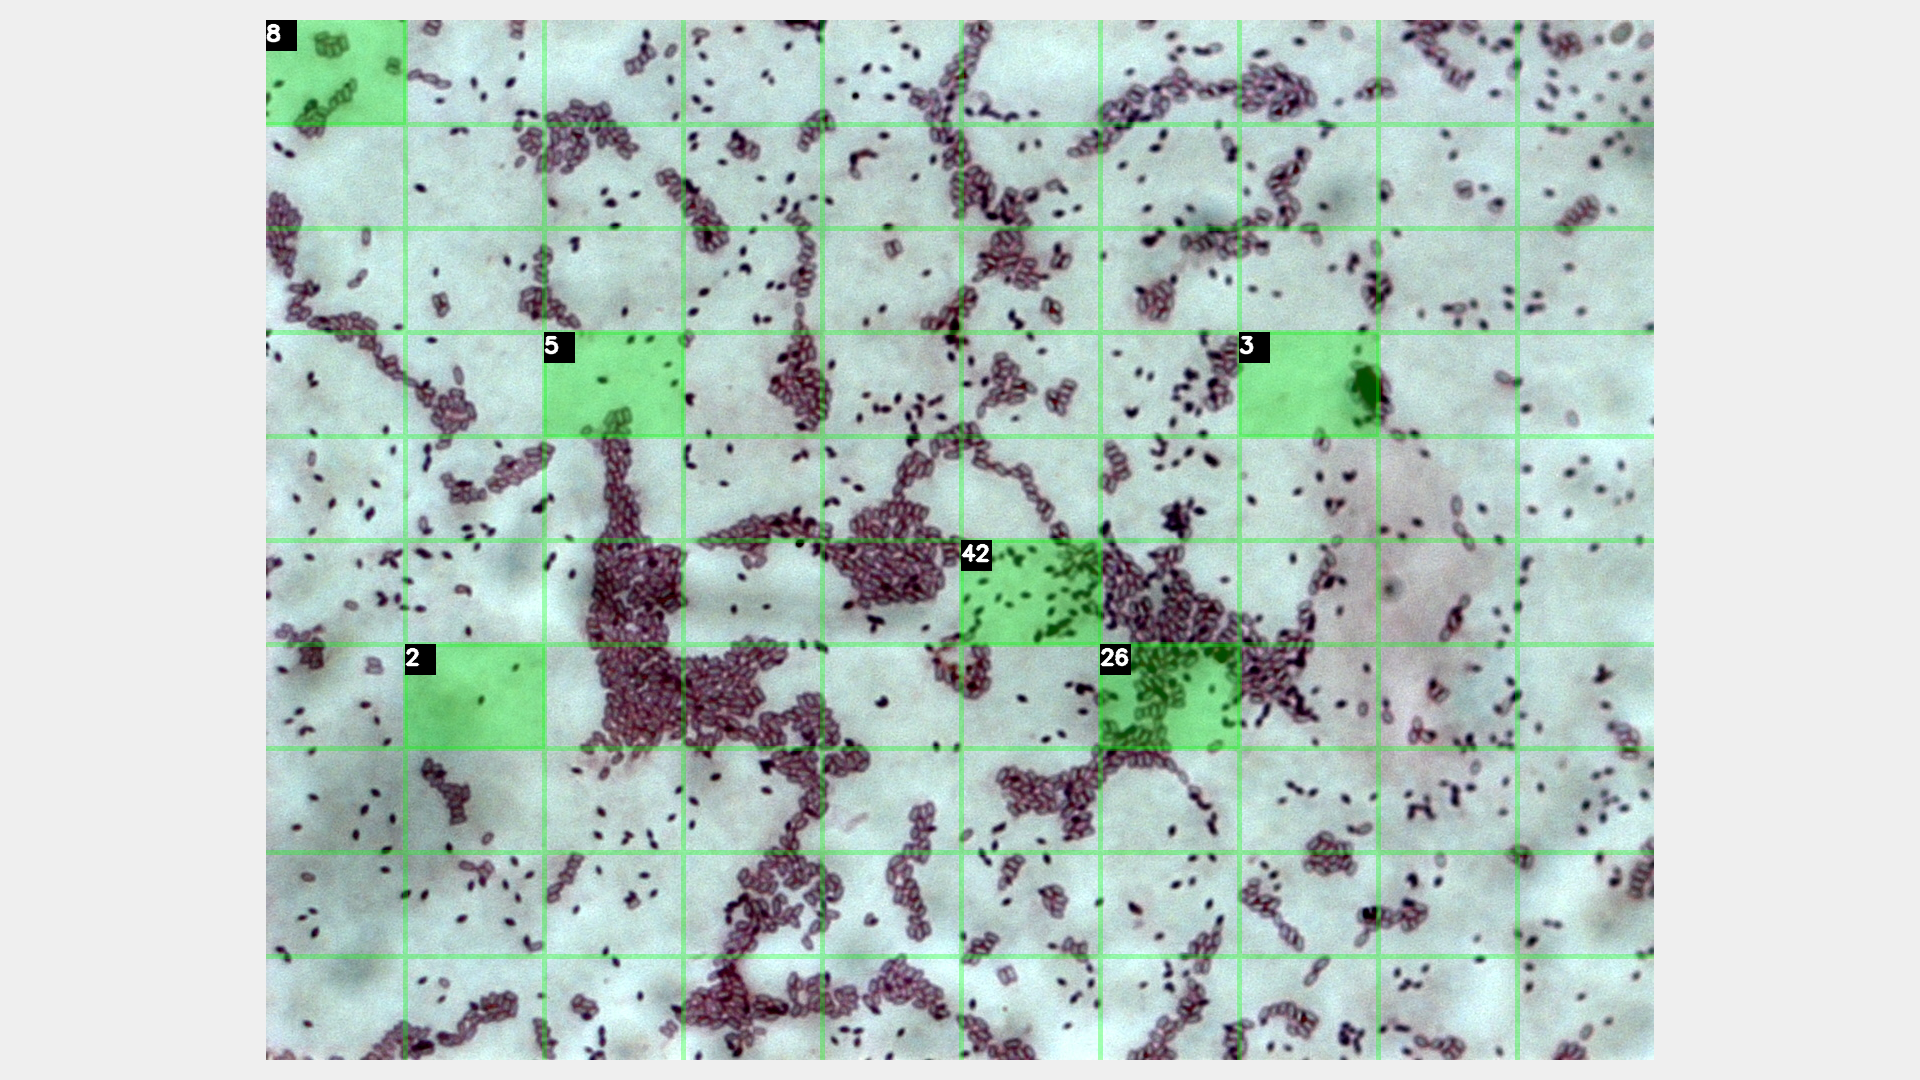
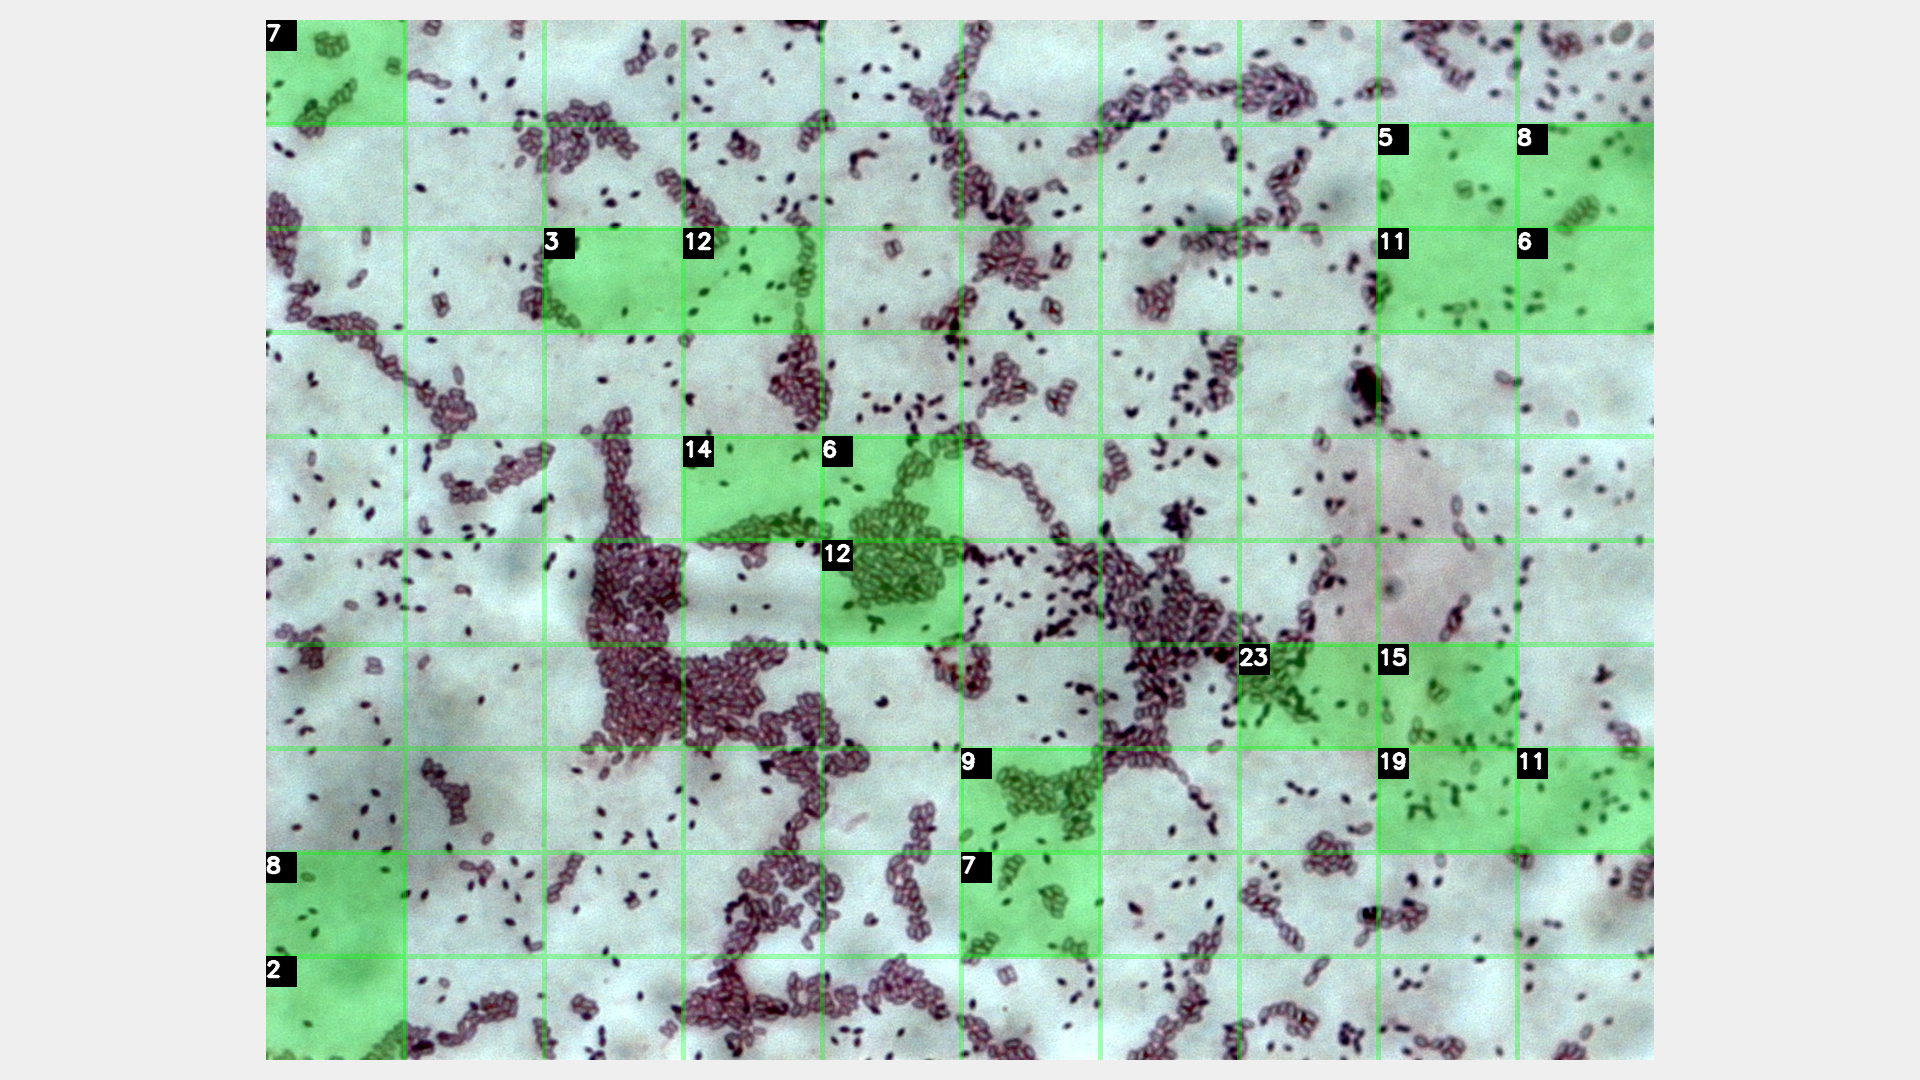
att readme

diff --git a/README.md b/README.md
@@ -5,3 +5,55 @@ Sistema auxilar para a contagem de elementos capturados em placas via images mic
 <p align="center">
     <img src="./assets/demoMicroCount.png" width="700px" height="375px">
 </p>
+
+## Sobre o Projeto
+
+O projeto consiste de uma aplicação desenvolvida em Python e utilizando a biblioteca de processamento de imagens OpenCV visando auxilar a contagem manual de elementos capturados em placas via images microscópicas. 
+
+Uma técnica comumente utilizada na área de bioinformática é a divisão da imagem original em áreas menores, denominadas setores. Assim, a contagem individual de cada setor é realizada e, ao final, a contagem geral é obtida pela soma das parcelas de cada setor.
+
+A ideia do projeto é automatizar parte desse processo, facilitando a divisão precisa da imagem em setores e fornecendo ferramentas para que o usuário possa marcar e contar os elementos manualmente dentro de cada setor. Isso permitirá uma contagem mais rápida e organizada, com a opção de ajustar e visualizar os setores de forma interativa. O objetivo final é melhorar a precisão e eficiência do processo de contagem, além de garantir que os resultados sejam facilmente registrados e exportados para futuras análises.
+
+## Funcionamento
+
+### Selecione uma imagem
+
+```
+*************** Escolha uma imagem ***************
+
+1) SE11 - 1.jpg
+2) BT 06 - quad 96 h- 5uL- corada.jpg
+3) LCBM 6 - 2.jpg
+4) T24_48h_foto2.jpg
+5) 23.1 - 1.2.jpg
+
+
+Escolha uma opcao:     2
+```
+
+### Imagem sob análise
+
+<p align="center">
+    <img src="./assets/demoMicroCount.png" width="350px" height="190px">
+    <img src="./assets/demoMicroCount_2.png" width="350px" height="190px">
+    <img src="./assets/demoMicroCount_3.png" width="350px" height="190px">
+</p>
+
+### Setor Selecionado
+
+<p align="center">
+    <img src="./assets/demoSetor.png" width="500px" height="268px">
+    <img src="./assets/demoSetor_2.png" width="500px" height="268px">
+</p>
+
+### Informe a contagem
+
+```
+Setor 41 - Contagem: 17
+```
+
+### Exporte os resultados
+
+<p align="center">
+    <img src="./assets/exportContagem.png" width="500px" height="268px">
+</p>
